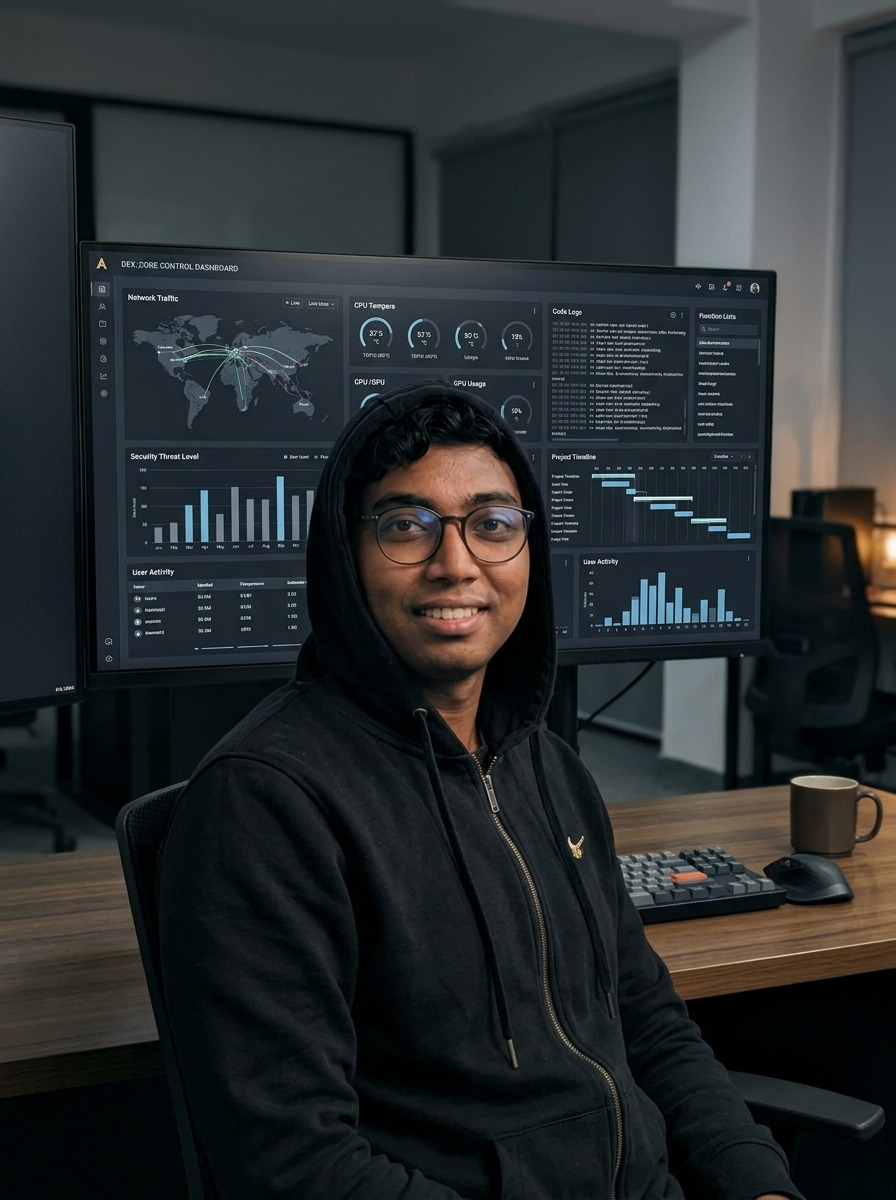
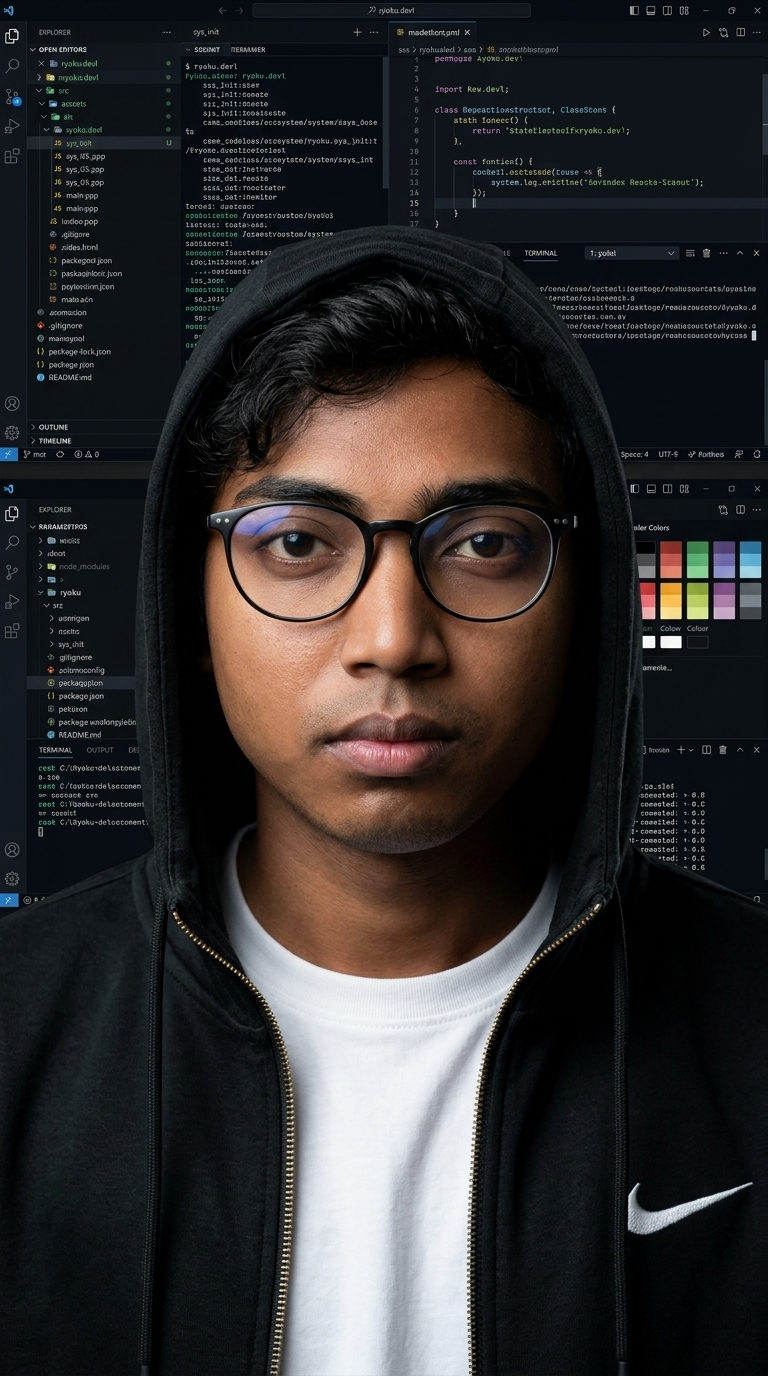
fix: edit the new image profile

diff --git a/components/container/heroSection.tsx b/components/container/heroSection.tsx
@@ -171,12 +171,10 @@ export const HeroSection = () => {
             <SlideInFromBottom delay={0.3} className="w-full">
               <div className="relative w-full aspect-[4/5] max-w-sm lg:max-w-md mx-auto border border-border bg-card p-2 shadow-sm">
 
-                {/* Visual Circle Overlay */}
                 <div className="absolute inset-0 flex items-center justify-center opacity-20 pointer-events-none">
                   <div className="w-[85%] h-[85%] rounded-full border border-border" />
                 </div>
 
-                {/* Kanji Overlay (Ryoku Vibe) */}
                 <span className="absolute top-4 right-4 text-xs font-serif text-muted-foreground/60 pointer-events-none z-10">
                   力
                 </span>
@@ -186,7 +184,7 @@ export const HeroSection = () => {
 
                 <div className="relative w-full h-full overflow-hidden">
                   <Image
-                    src="/assets/image/profile-remove.png"
+                    src="/assets/image/hero-portrait.jpg"
                     alt="Hero portrait"
                     fill
                     priority

diff --git a/components/container/profile.tsx b/components/container/profile.tsx
@@ -3,7 +3,6 @@
 import React from "react";
 import BlurFade from "@/components/container/blur-fade";
 import { BLUR_FADE_DELAY } from "@/lib/constant";
-import { Button } from "@/components/ui/button";
 import { EnvelopeClosedIcon } from "@radix-ui/react-icons";
 import { MapPin, Phone } from "lucide-react";
 import { NavbarProfile } from "@/components/navbar/navbarProfile";
@@ -44,10 +43,10 @@ export const Profile = () => {
               美
             </span>
             <img
-              src="/assets/image/portrait.jpg"
+              src="/assets/image/hero-portrait.jpg"
               alt="herman"
               data-testid="profile-image"
-              className="relative h-full w-full object-cover object-top"
+              className="relative h-full w-full object-cover object-container"
             />
           </div>
         </div>
